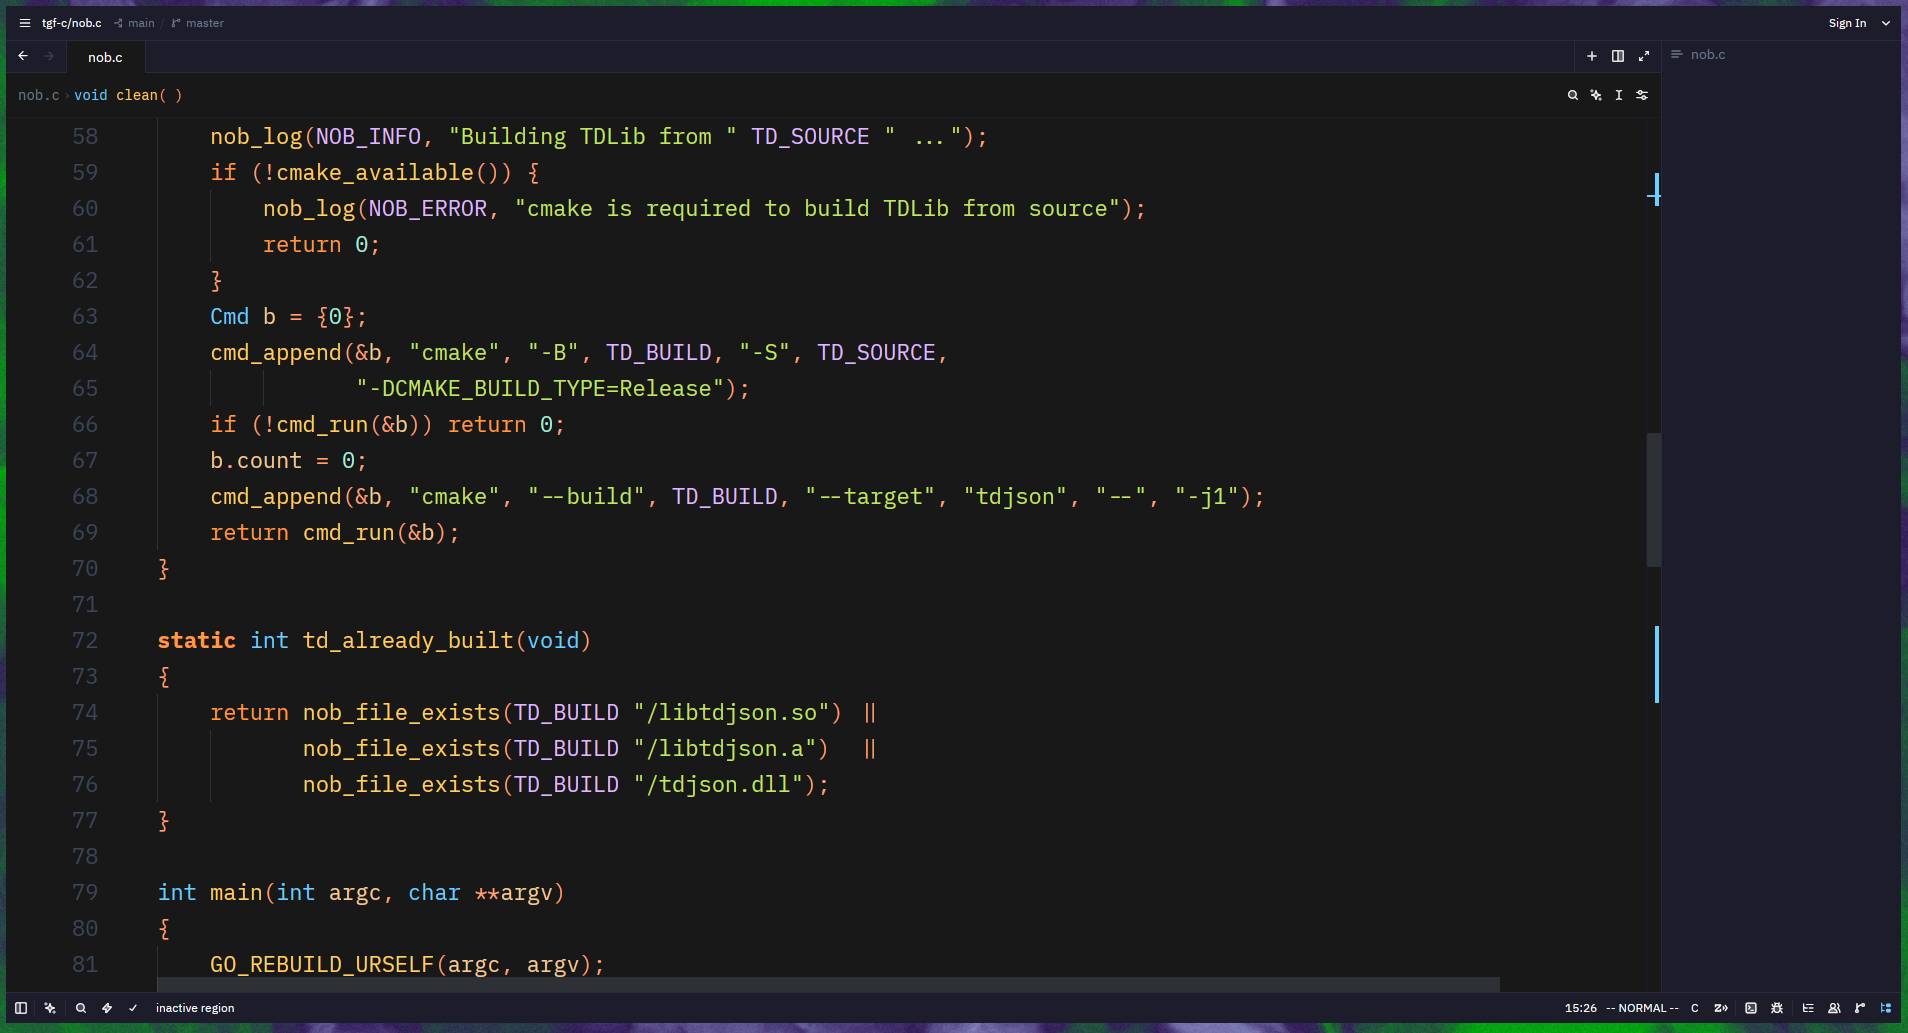
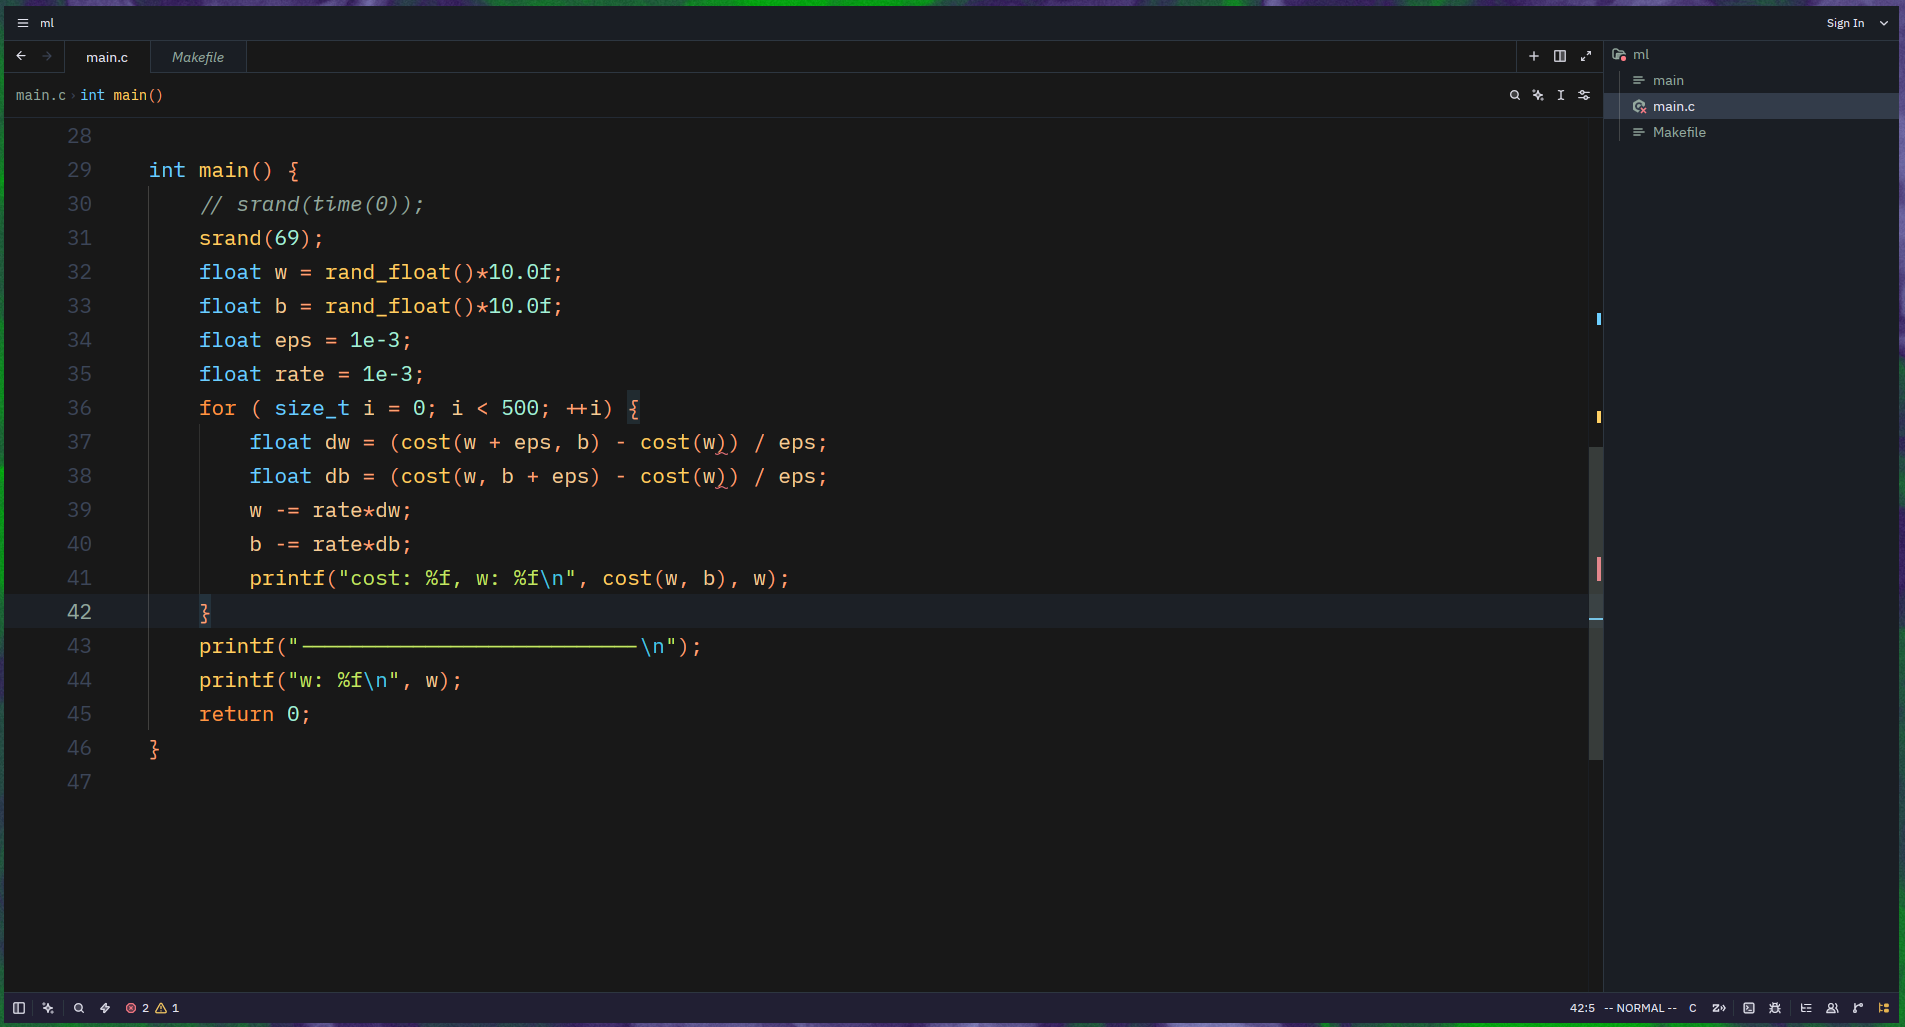
screenshots update

diff --git a/README.md b/README.md
@@ -7,8 +7,6 @@ with the warm, high-contrast syntax palette of [Ayu Dark](https://github.com/ayu
 ## Screenshots
 
 ![Screenshot 1](screenshots/ss-1.png)
-![Screenshot 2](screenshots/ss-2.png)
-![Screenshot 3](screenshots/ss-3.png)
 
 ## Installation
 
